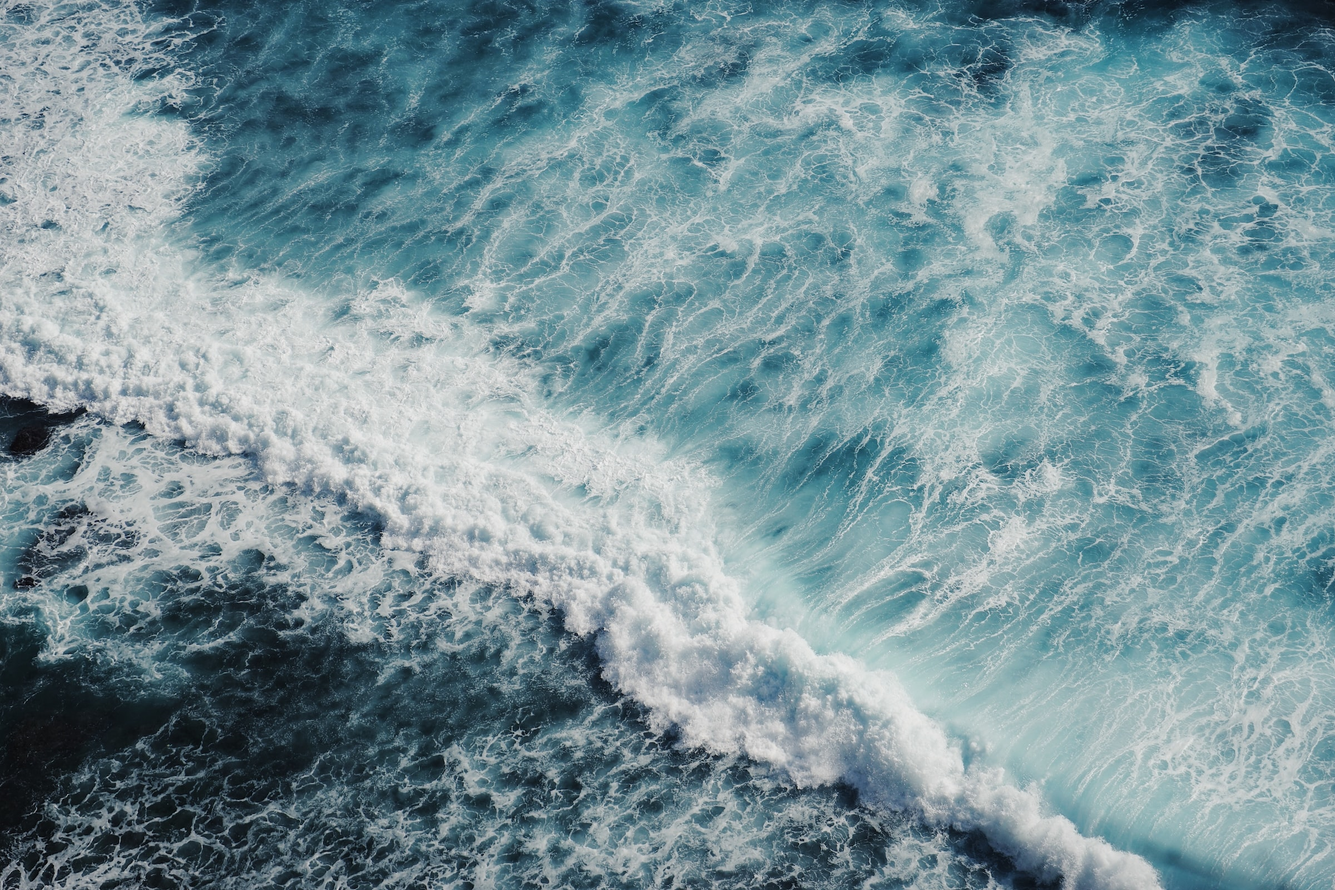
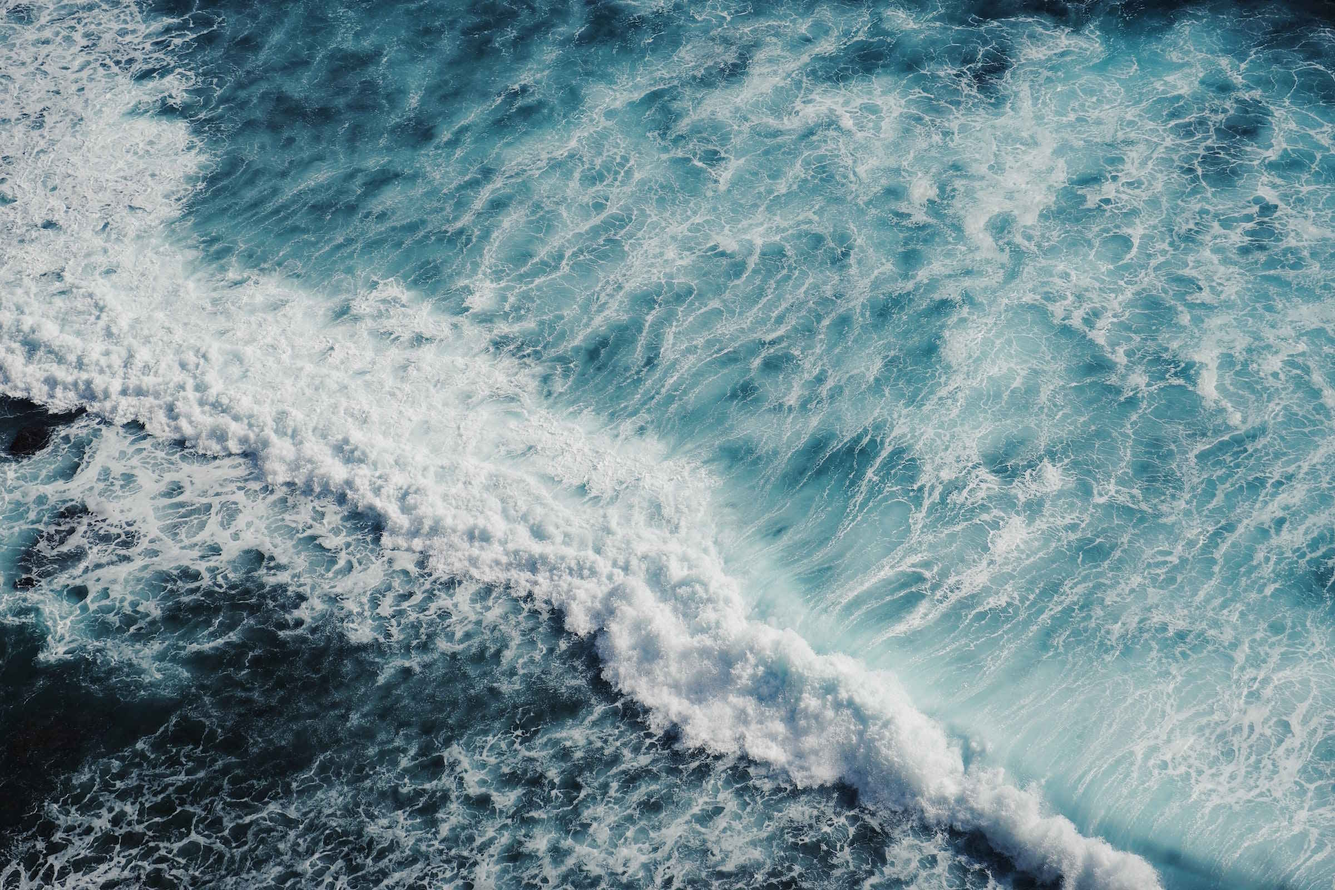
added useImagePreloader hook

diff --git a/client/src/hooks/useImagePreloader.jsx b/client/src/hooks/useImagePreloader.jsx
@@ -1,0 +1,51 @@
+import { useEffect, useState } from 'react'
+
+function preloadImage (src) {
+  return new Promise((resolve, reject) => {
+    const img = new Image()
+    img.onload = function() {
+      resolve(img)
+    }
+    img.onerror = img.onabort = function() {
+      reject(src)
+    }
+    img.src = src
+  })
+}
+
+export default function useImagePreloader(imageList) {
+  const [imagesPreloaded, setImagesPreloaded] = useState(false)
+
+  useEffect(() => {
+    let isCancelled = false
+
+    async function effect() {
+      console.log('PRELOAD')
+
+      if (isCancelled) {
+        return
+      }
+
+      const imagesPromiseList = []
+      for (const i of imageList) {
+        imagesPromiseList.push(preloadImage(i))
+      }
+  
+      await Promise.all(imagesPromiseList)
+
+      if (isCancelled) {
+        return
+      }
+
+      setImagesPreloaded(true)
+    }
+
+    effect()
+
+    return () => {
+      isCancelled = true
+    }
+  }, [imageList])
+
+  return { imagesPreloaded }
+}

diff --git a/client/src/App.js b/client/src/App.js
@@ -14,7 +14,7 @@ function App() {
     username: localStorage.getItem('webspace_username'),
     email: localStorage.getItem('webspace_email'),
   })
-  const [backgroundImage, setBackgroundImage] = useState(localStorage.getItem('webspace_backgroundImage') || 'ocean')
+  const [backgroundImage, setBackgroundImage] = useState(localStorage.getItem('webspace_backgroundImage') || 'ocean-lg')
   const [layout, layoutDispatch] = useReducer(
     layoutReducer,
     JSON.parse(localStorage.getItem('webspace_layout')) || []
@@ -45,7 +45,6 @@ function App() {
       <div className='flex-1 overflow-y-auto'>
         <Grid appState={appState} />
       </div>
-      {/* <div className='p-10 bg-orange-100'></div> */}
     </div>
   );
 }

diff --git a/client/src/components/BackgroundButton.jsx b/client/src/components/BackgroundButton.jsx
@@ -1,4 +1,5 @@
 import React, { useState } from 'react'
+import useImagePreloader from '../hooks/useImagePreloader'
 import { IoImageOutline } from 'react-icons/io5'
 import ButtonPopover from './primitives/ButtonPopover'
 import GrassImg from '../img/green-grass-sm.jpg'
@@ -19,6 +20,8 @@ const BackgroundButton = ({ appState }) => {
   const { setBackgroundImage } = appState
   
   const [open, setOpen] = useState(false)
+
+  useImagePreloader(images.map(img => img.thumbnail))
 
   return (
     <ButtonPopover
